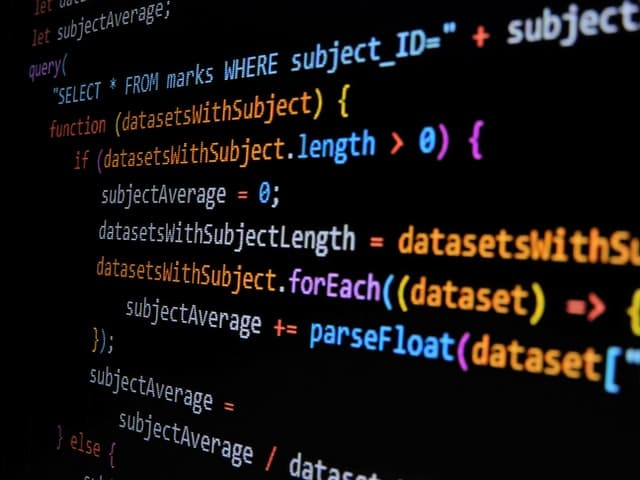
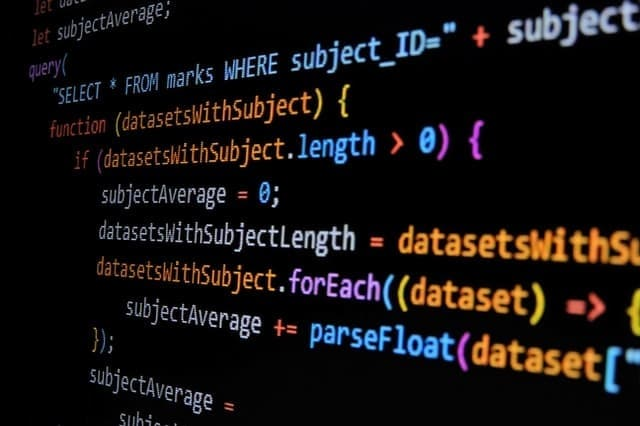
Added about section

diff --git a/index.html b/index.html
@@ -69,7 +69,7 @@
             <div id="carouselExampleControls" class="carousel slide carousel-fade " data-bs-ride="carousel">
                 <div class="carousel-inner rounded-2 fs-5">
                     <div class="carousel-item active">
-                        <img src="images/slider-banner/banner-1.png" class="d-block w-100" alt="...">
+                        <img src="images/slider-banner/banner-1.jpg" class="d-block w-100" alt="...">
                         <div class="carousel-caption p-2 p-md-5">
                             <h1>You can enjoy studying and grow</h1>
                             <p class="my-3">Skills for your present (and your future). Get started with us.</p>
@@ -77,7 +77,7 @@
                         </div>
                     </div>
                     <div class="carousel-item">
-                        <img src="images/slider-banner/banner-2.png" class="d-block w-100" alt="...">
+                        <img src="images/slider-banner/banner-2.jpg" class="d-block w-100" alt="...">
                         <div class="carousel-caption p-2 p-md-5">
                             <h1>Get Started Digital Learning</h1>
                             <p class="my-3">Choose a profession that suits you most.</p>
@@ -248,6 +248,43 @@
                 </div>
             </div>
             <a href="#" class="btn btn-primary px-4 py-2 fs-5 fw-bold mt-5">View All</a>
+        </section>
+
+        <!-- About section -->
+        <section id="about" class="container-lg text-center text-lg-start pt-5 mt-3 mt-md-5">
+            <div class="container-fluid">
+                <div class="row row-cols-1 row-cols-lg-2 mt-4">
+                    <div class="col">
+                        <img src="images/site-images/image-1.jpg" alt="" class="img-fluid w-100 h-100">
+                    </div>
+                    <div class="col p-3 p-lg-5">
+                        <h1 class="fw-bold">Take the next step toward your goal</h1>
+                        <p class="fs-5 mt-4">With more than 2,000 Courses and Professional Certificates from
+                            renowned organisations, you may launch, develop, or enhance your profession.
+                        </p>
+                        <p class="fs-5 mb-4">Learners all around the world are starting new businesses, progressing in
+                            their
+                            industries, and improving their lives.
+                        </p>
+                        <div class="d-flex justify-content-between flex-wrap gap-3 my-4">
+                            <div class="d-flex flex-column">
+                                <h1 class="fw-bold">2.2K+</h1>
+                                <h5 class="fw-bold text-secondary">Online Courses</h5>
+                            </div>
+                            <div class="d-flex flex-column">
+                                <h1 class="fw-bold">400+</h1>
+                                <h5 class="fw-bold text-secondary">Expert member</h5>
+                            </div>
+                            <div class="d-flex flex-column">
+                                <h1 class="fw-bold">1.3K+</h1>
+                                <h5 class="fw-bold text-secondary">Rating & Review</h5>
+                            </div>
+                        </div>
+
+                        <a href="#" class="btn btn-primary px-4 py-2 fs-5 fw-bold mt-3">Learn More</a>
+                    </div>
+                </div>
+            </div>
         </section>
 
         <!-- Register now section -->

diff --git a/styles.css b/styles.css
@@ -43,3 +43,7 @@ body {
     justify-content: center;
     align-items: center;
 }
+
+#about img {
+    object-fit: cover;
+}
